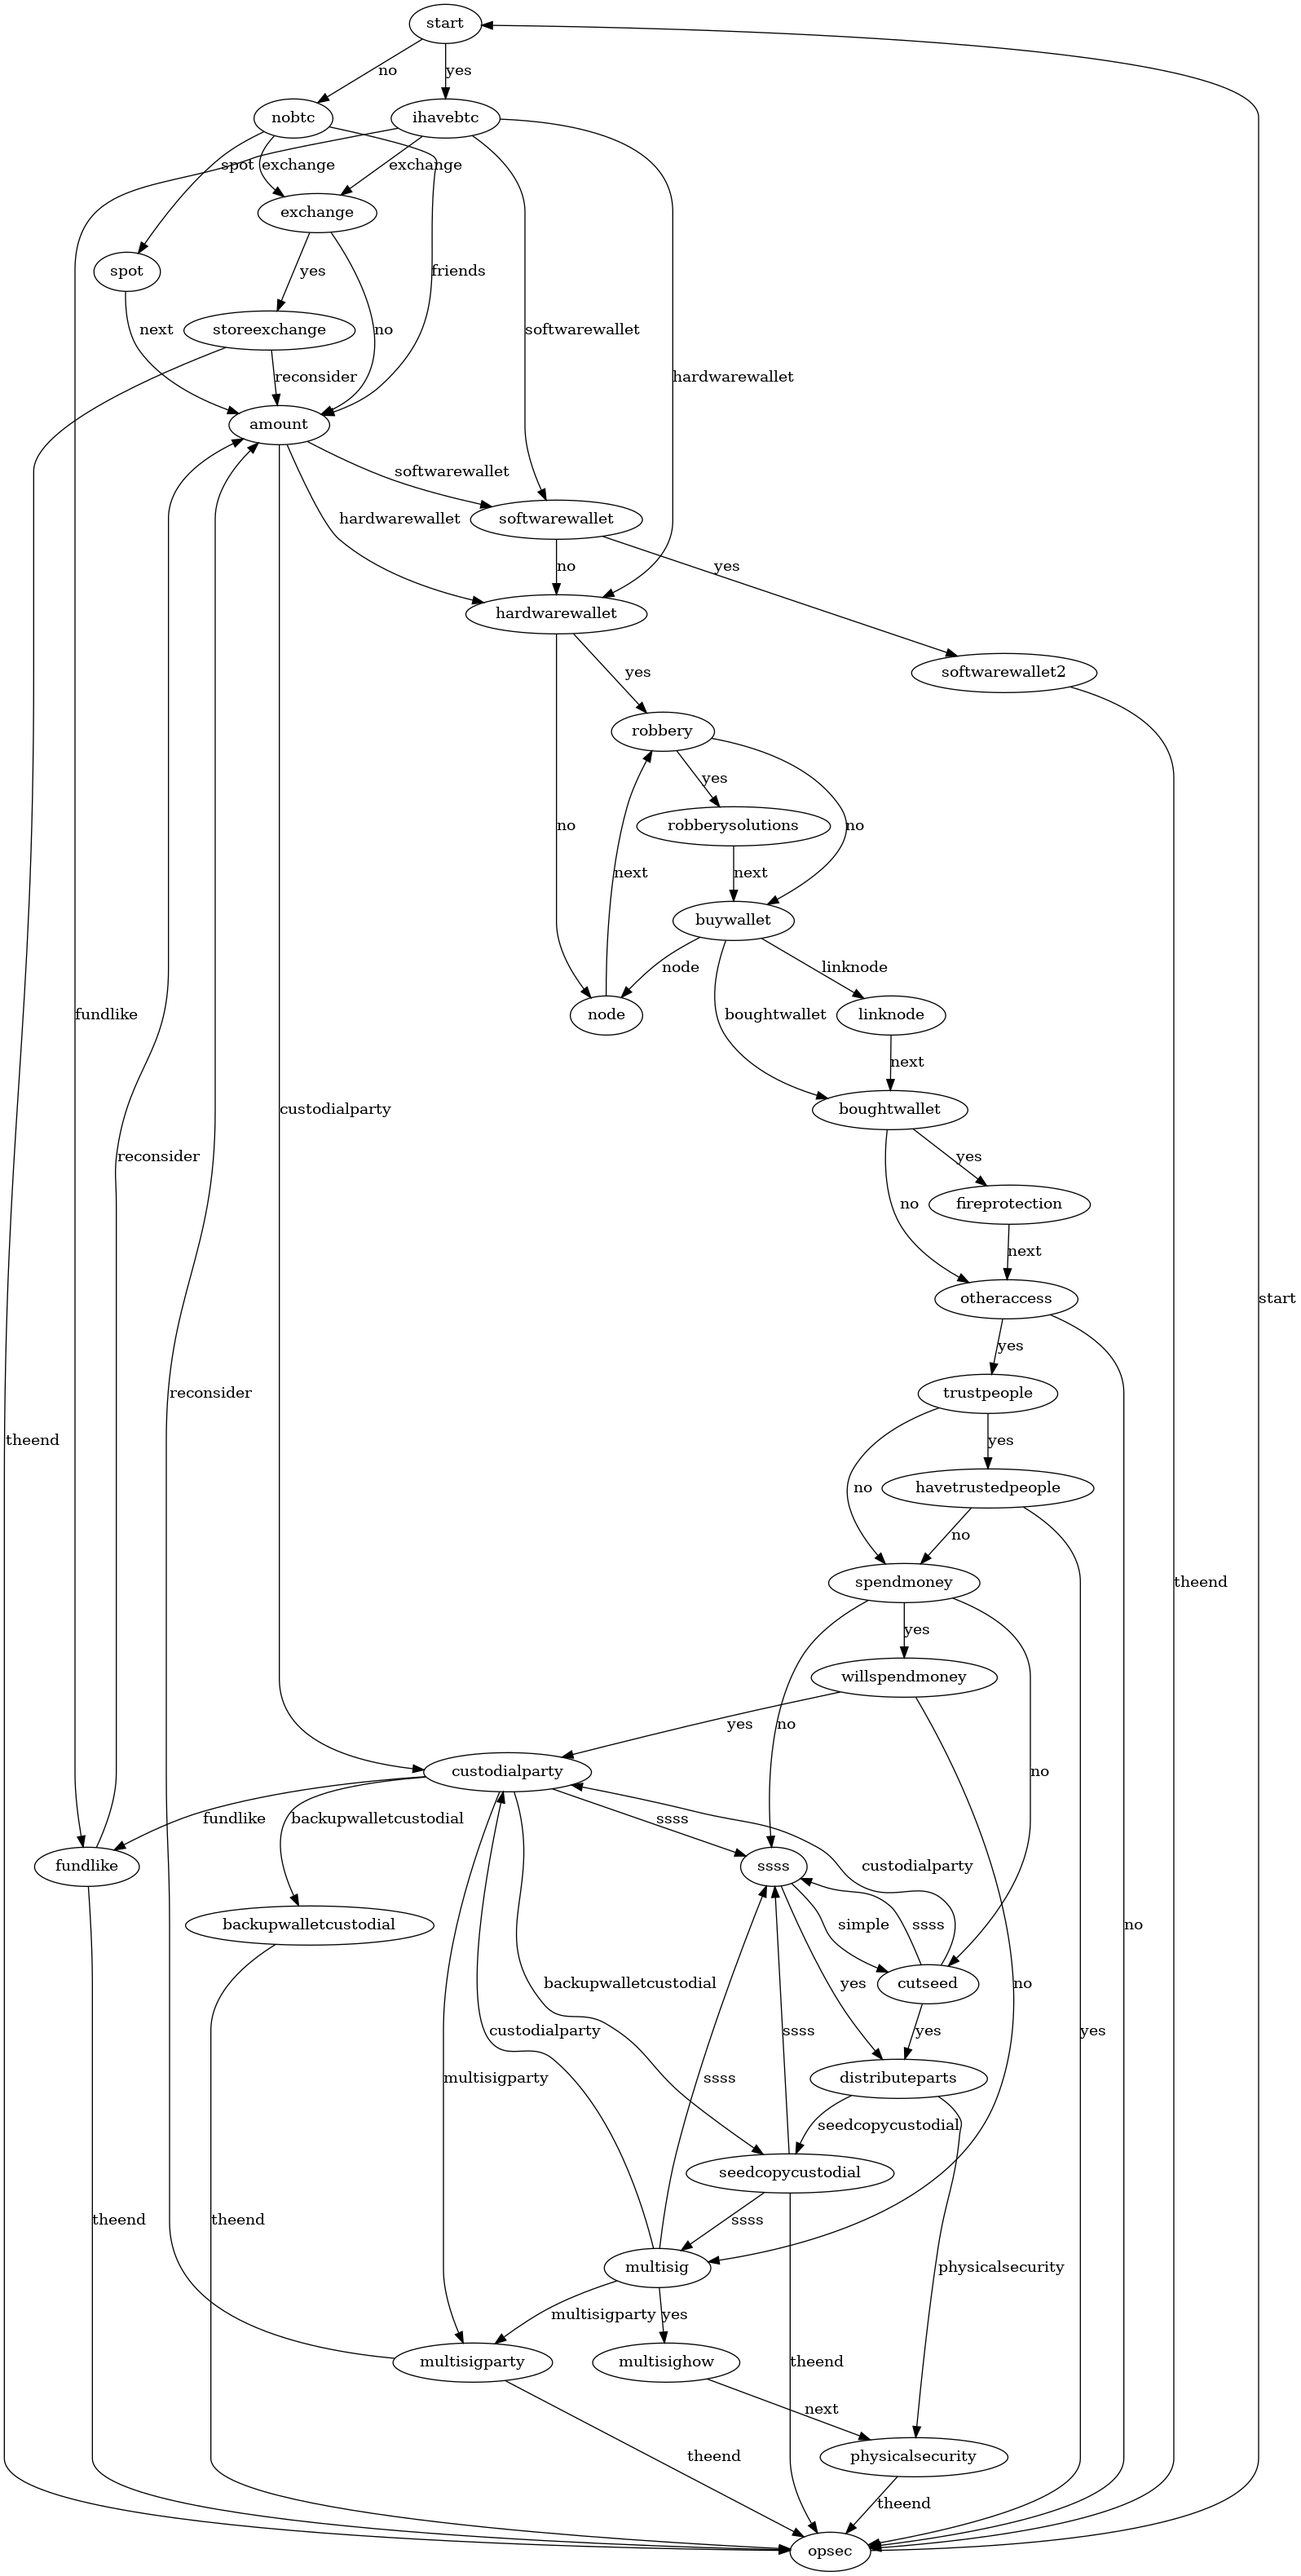
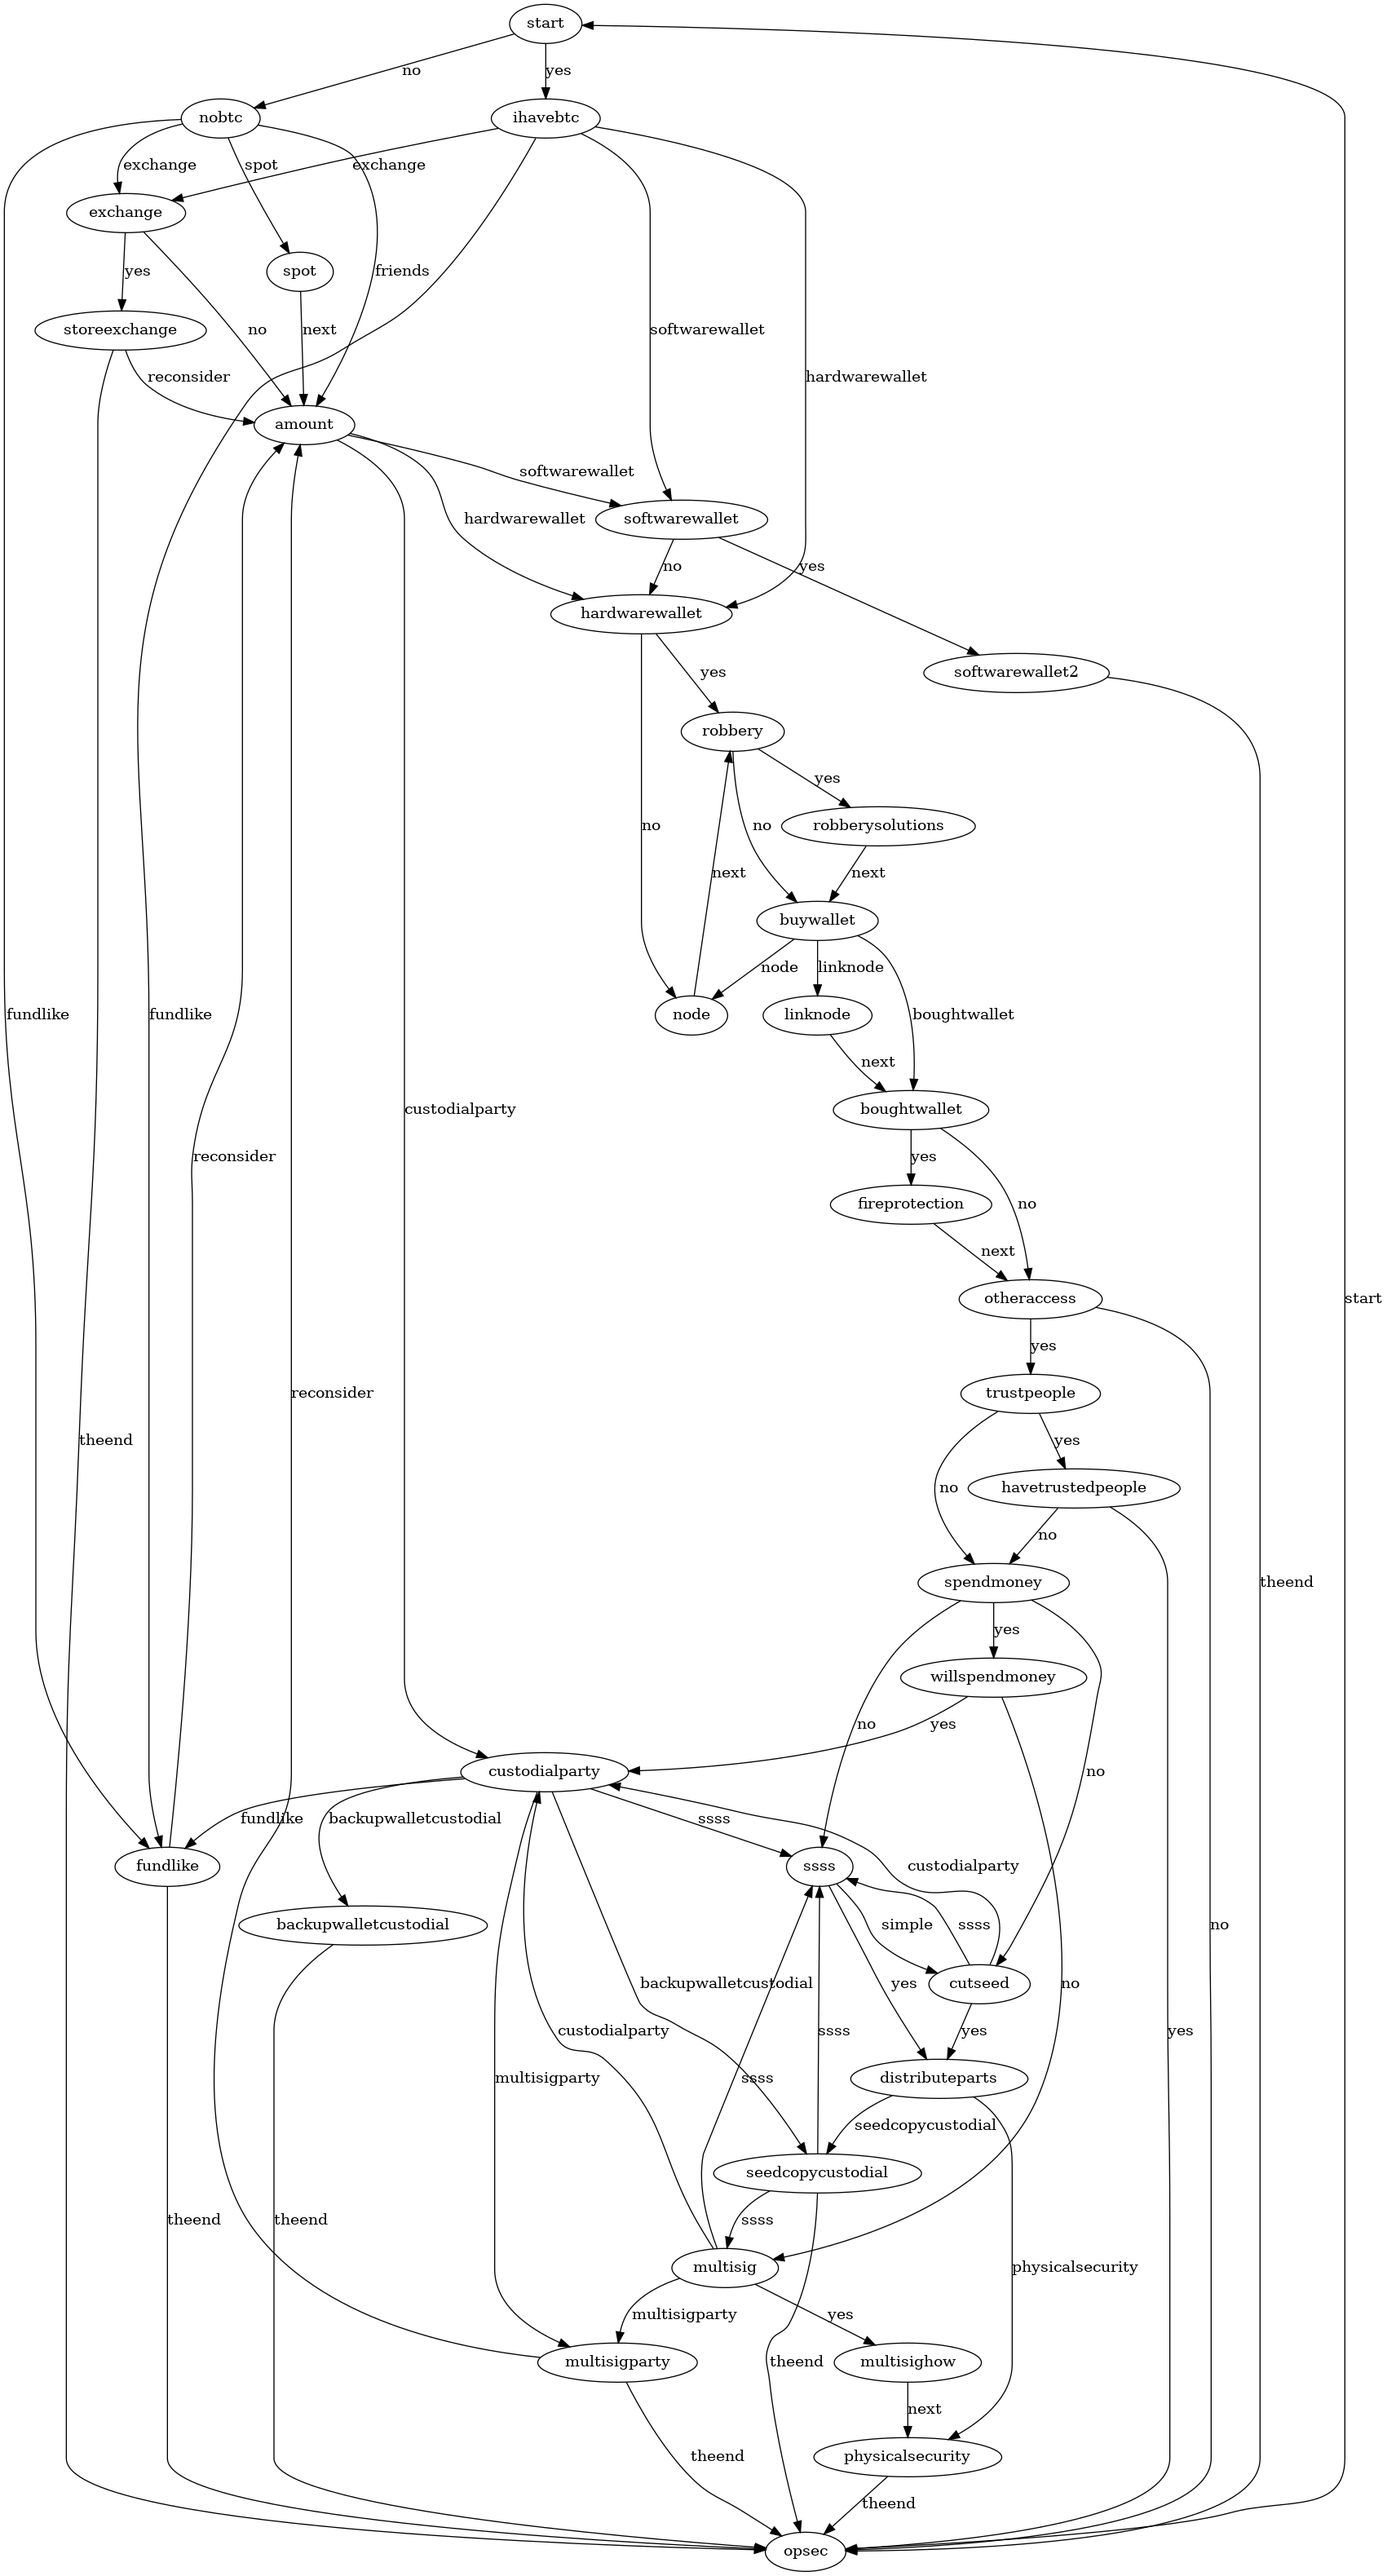
At the buy step, link to fund like products

diff --git a/index.html b/index.html
@@ -81,10 +81,10 @@
             <p class="warning" data-i18n="warning">Never buy for more money than you can lose.</p>
             <p class="question" data-i18n="question">How do you want to buy bitcoin?</p>
             <ul class="button">
-              <li><a href="#/spot" data-i18n="spot">Simple using a spot site</a></li>
-              <li><a href="#/amount" data-i18n="friends">I will buy from friends or using a peer to peer platform</a>
-              </li>
-              <li><a href="#/exchange" data-i18n="exchange">Advanced using an exchange</a></li>
+              <li><a href="#/spot" data-i18n="spot">Simple using a broker</a></li>
+              <li><a href="#/exchange" data-i18n="exchange">Advanced using a bitcoin exchange</a></li>
+              <li><a href="#/amount" data-i18n="friends">I will buy from friends or using a peer to peer platform</a> </li>
+              <li><a href="#/fundlike" data-i18n="fundlike">I want to but on a regular stock exchange</a></li>
             </ul>
           </section>
 
